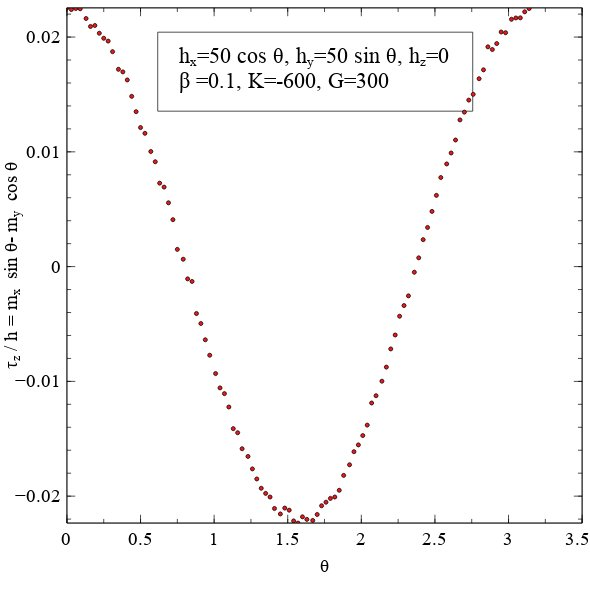
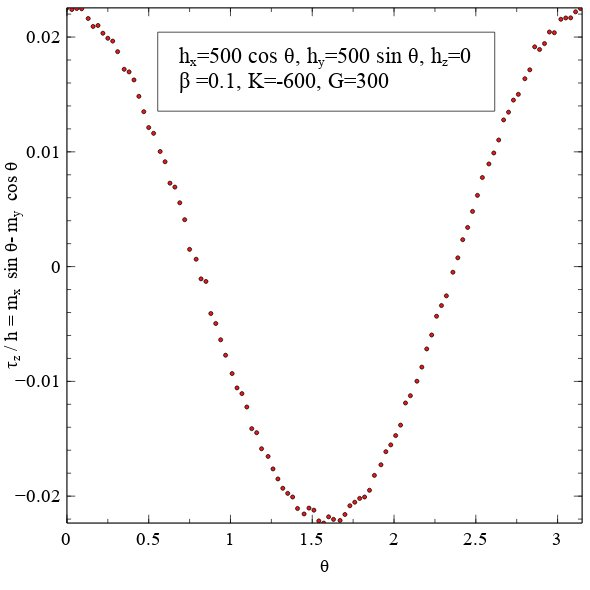
up

diff --git a/honeycomb_cool_each.cc b/honeycomb_cool_each.cc
@@ -19,7 +19,7 @@ boost::random::mt19937 gen;
 using namespace std;
 
 const double pi = acos(-1.0);
-const double hmag =500.0;
+const double hmag =50.0;
 const double beta_we_want =0.1;
 
 // Define lattice constants
